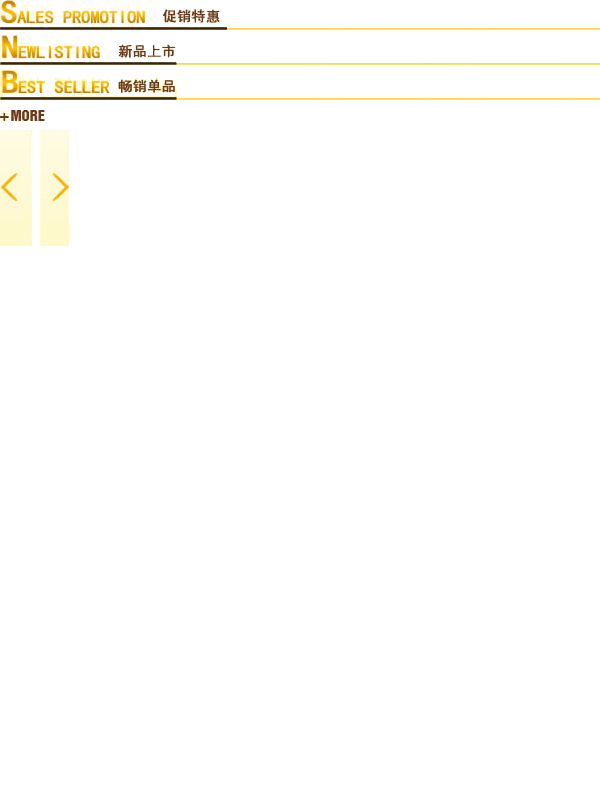
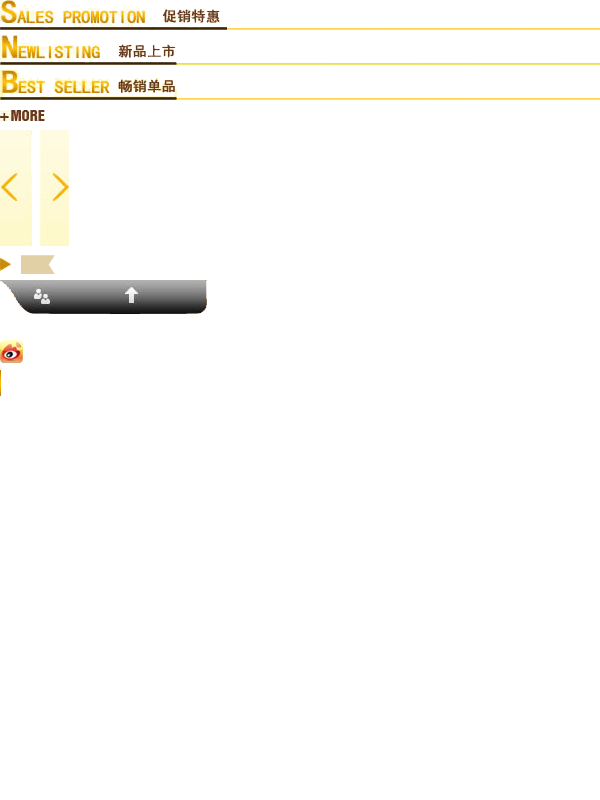
完成了主页部分修改

Changed region(s): [[0.0, 0.3125, 0.36, 0.4688]]

diff --git a/themes/default/style.css b/themes/default/style.css
@@ -13,7 +13,7 @@ Template Type: type_0
 /* ====================
      公共样式
 ==================== */
-body{background:url(images/body_bg.jpg) repeat-x left top; font-size:12px; font-family:"宋体",Verdana, Arial; line-height:150%; margin:5px 0 0 0; padding:0; color:#404040;}
+body{font-size:12px; font-family:"宋体",Verdana, Arial; line-height:150%; margin:0; padding:0; color:#404040;}
 div{margin:0 auto; padding:0;}
 h1,h2,h3,h4,h5,h6,ul,li,dl,dt,dd,form,img,p{
 margin:0; padding:0; border:none; list-style-type:none;
@@ -78,10 +78,9 @@ visibility:hidden;
   text-align:center; line-height:21px; color:#fff; border:none; cursor:pointer;
   }
   /*模块容器*/
-  .box{background:#f1f1f1; padding-bottom:2px; overflow:hidden;}
+  .box{background:#fdf8ce; padding-bottom:7px; overflow:hidden;}
   .box_1{border:1px solid #c5e4ff; background-color:#fff;}
-  .box_2{border:0px; background:url(images/box_2Bg.gif) repeat-x top left;
-  background-color:#fffcf3;  overflow:hidden;
+  .box_2{border:0px; background-color:#fdf8ce;  overflow:hidden;
   }
   .boxCenterList{padding:8px;}
   /*模块标题*/
@@ -102,12 +101,12 @@ visibility:hidden;
   h6 span{float:left; padding-left:15px;}
 
   /*页面留白*/
-  .blank{height:8px; line-height:8px; clear:both; visibility:hidden;}
-  .blank5{height:3px; line-height:5px;/* _margin:-3px 0;*/ clear:both; visibility:hidden;}
+  .blank{height:3px; line-height:8px; clear:both; visibility:hidden;}
+  .blank5{/*height:3px;*/ line-height:5px;/* _margin:-3px 0;*/ clear:both; visibility:hidden;}
   /*布局*/
   .AreaL{width:200px; float:left; margin-right:10px;}
   .AreaR{width:784px; float:left;}
-  .AreaM{width:994px; float:left;}
+  .AreaM{width:994px; }
 
 /* ====================
      导航部分
@@ -121,7 +120,9 @@ visibility:hidden;
   #topNav{background:url(images/topNav_bg.png) no-repeat; height:34px; width:387px;
   line-height:35px; color:#bebfc1; /*padding:0px 15px;*/ margin:0px -9px; position:relative;
   }
-  #logo{background:url(images/aoya.png) no-repeat; height:76px; width:91px;}
+  #logo{height:76px; width:125px; margin:3px 5px}
+  #header_title{font-size:30px; margin:57px 0 0 7px; color:#ba9e66;}
+  #header_activities{margin: 55px 0px 0px 70px; width: 200px; height: 25px; font-size: 14px; background: #fff6c3; padding-left: 5px;  line-height: 2;}
   /*#topNav .topNavR{ width:5px; height:31px;
   position:absolute; top:0px; right:0px;
   }*/
@@ -139,25 +140,18 @@ visibility:hidden;
   }
   #search .go{background:url(images/bnt_search.gif); border:none; width:52px; height:19px;/* position:relative; top:2px; utf8下*/}
   /*页面主导航*/
-  #mainNav{padding:0 25px; width:910px;}
-  #mainNav a{display:block; height:26p; float:left; line-height:23px; text-align:center;
-  padding:0 15px; position:relative;
-  margin-right:2px; color:#ffffff; text-decoration:none;
-  }
-  #mainNav a span{width:3px; height:26px; background:url(images/NavBg.gif) no-repeat 0 -88px;
+  #mainNav{/*padding:0 25px; width:910px;*/ background:url(images/nav_main_bg.png) repeat-x left top}
+  #mainNav a{display:block; height:26px; float:left; line-height:23px; text-align:center; padding:0 25px; position:relative; margin-left:20px; color:#ffffff; text-decoration:none; font-size: 16px; }
+  #main_bg{background:url(images/main_bg.jpg) repeat-x left top;}
+  /*#mainNav a span{width:3px; height:26px; background:url(images/NavBg.gif) no-repeat 0 -88px;
   position:absolute; top:0px; right:0px;
+  }*/
+  #mainNav a:hover{ line-height:25px; }
+  #mainNav .cur{ font-weight:bold;
   }
-  #mainNav a:hover{display:block; height:26p; float:left; line-height:23px; text-align:center;
-  padding:0 15px; position:relative;
-  margin-right:2px; color:#fff; text-decoration:none;
-  }
-  #mainNav .cur{display:block; height:26p; float:left; line-height:23px; text-align:center;
-  padding:0 15px; position:relative;
-  margin-right:2px; color:#fff; text-decoration:none; font-weight:bold;
-  }
-  #mainNav a:hover span,#mainNav .cur span{width:3px; height:26px; background:url(images/NavBg.gif) no-repeat 0 -59px;
+  /*#mainNav a:hover span,#mainNav .cur span{width:3px; height:26px; 
   position:absolute; top:0px; right:0px;
-  }
+  }*/
   /*当前位置*/
   #ur_here{border:1px solid #c5e4ff; border-top:none; background:url(images/uh_bg.gif) repeat-x left top;
   height:36px; line-height:36px; padding:0 12px;
@@ -198,14 +192,16 @@ visibility:hidden;
    .top10List li a,#mallNews .NewsList li a,.boxCenterList li a{color:#3f3f3f; text-decoration:none;}
    .top10List li a:hover,#mallNews .NewsList li a:hover,.boxCenterList li a:hover{color:#ff6600; text-decoration:none;}
    /*首页焦点图*/
-   #focus{border-right:1px solid #c5e4ff; padding:1px; background:url(images/foucsBg.gif) repeat-x left top;}
-   #mallNews{width:375px;height:160px;background:url(images/foucsBg.gif) repeat-x left top;float:left;}
+   #focus{/*border-right:1px solid #c5e4ff; padding:1px; background:url(images/foucsBg.gif) repeat-x left top;*/}
+   #focus{width:994px; height:497px;}
+   #mallNews{width:375px;height:160px;float:left;}
    #mallNews .NewsTit{background:url(images/tubiao.png) no-repeat 0px 0px; height:30px;}
-   #mallNews .NewsList{background:#FFFFFF; padding:8px;}
+   #mallNews .NewsList{background:#fdf8ce; padding:8px;}
    #mallNews .NewsList ul{margin-top:10px;}
-   #mallNews .NewsList li{background:url(images/bg.gif) no-repeat 0px -167px; padding:0px 0px 0px 10px;
+   #mallNews .NewsList li{background:url(images/tubiao.png) no-repeat 0px -255px; padding:0px 0px 0px 24px;margin:0px 0px 12px 0px;
    text-align:left;
    }
+   .new_article_cat{color:#9b8033;}
    /*今日特价和品牌*/
    #sales{width:500px; background:url(images/salesBg.gif) repeat-x left bottom;
    border-bottom:2px solid #f0f1f3; background-color:#eef8ff;
@@ -239,7 +235,7 @@ visibility:hidden;
    .left_more{margin-left:40px;display:block;width:32px;height:116px;background:url(images/tubiao.png) no-repeat 0px -130px;float:left;}
    .right_more{margin-left:40px;display:block;width:32px;height:116px;background:url(images/tubiao.png) no-repeat 0px -130px;float:left;}
    .main_hot{height:165px;}
-   .itemTit.Hot{background:url(images/bg.gif) no-repeat 0px -256px;}
+   .itemTit.Hot{background:url(images/tubiao.png) no-repeat 0px -65px;}
    .itemTit img{position:relative; top:7px;}
    .itemTit h2{float:left; height:27px; background:url(images/itemH2Bg.gif) repeat-x left top; border:1px solid #d6ecff;
    font-size:12px; text-align:center; color:#3f3f3f; font-weight:100; padding:0px 10px; line-height:28px; margin:0 6px 0 0;
@@ -251,7 +247,7 @@ visibility:hidden;
      display:inline; white-space:nowrap;
    }
    .itemTit .h2bg a{color:#006ace; text-decoration:none;}
-   .centerPadd .goodsBox{border:1px solid #d6ecff; background:#fff; padding:12px 0px 0px 17px; *padding:12px 0px 0px 17px;
+   .centerPadd .goodsBox{background:#fdf8ce; padding:12px 0px 0px 17px; *padding:12px 0px 0px 17px;
    _padding:12px 0px 0px 0px;}
    .centerPadd .goodsBox .more{text-align:right; clear:both; margin:0 8px 8px 0;}
        /*单个商品*/
@@ -433,10 +429,14 @@ visibility:hidden;
    #pager a{color:#0066cc; text-decoration:none;}
 
    /*底部导航+友情链接*/
-   #bottomNav{width:994px;}
-   .bNavList{border:1px solid #fff; background:#eef6f9; height:27px; line-height:27px; padding:0 12px;}
+   #bottomNav{/*width:994px;*/ background:#ffe18e}
+   #back_top{background: url(images/tubiao.png) no-repeat 0px -280px;
+    width: 207px; height: 35px; margin-right: -12px;}
+   #back_top a { color: #fff; margin: 3px 17px 0px 20px; display: inline-block; float: right;}
+   #footer_share { margin: 5px 30px 0px 0px; }
+   .bNavList{ height:27px; line-height:27px; padding:0 12px;}
    .links{border:1px solid #fff; background:#eef6f9; padding:0 12px;}
-   .bNavList a,.links a{color:#006acd; text-decoration:none;}
+   .bNavList a,.links a{color:#404040; text-decoration:none;}
    .bNavList img{_position:relative; top:8px;}
    .links img{width:88px; height:30px; margin:5px;}
    /*版权*/

diff --git a/js/common.js b/js/common.js
@@ -329,7 +329,7 @@ onload = function()
     }
   } // FF
 
-  try
+/*  try
   {
     rmd = Math.random();
     rmd_s = Math.floor(rmd * 10);
@@ -349,7 +349,7 @@ onload = function()
   }
   catch(ex)
   {
-  }
+  }*/
 }
 
 /* *
